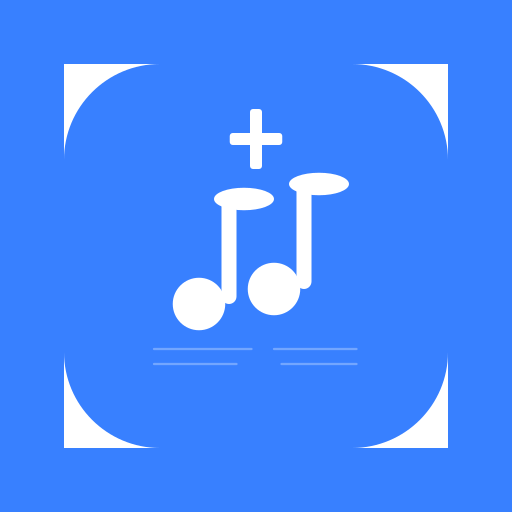
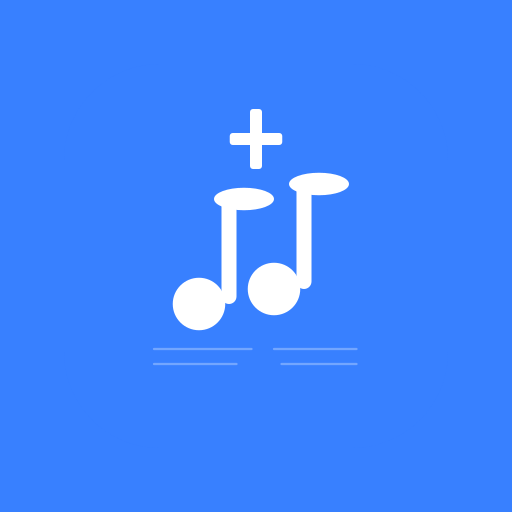
[FIX] Splash screen com fundo azul completo - corrige fundo branco no iOS e Android

diff --git a/scripts/generate-icons.js b/scripts/generate-icons.js
@@ -22,33 +22,47 @@ async function generateIcons() {
 
   for (const { size, name, maskable } of sizes) {
     try {
-      // Para ícones maskable, reduz o conteúdo para 75% (safe zone)
-      // deixando 12.5% de margem em cada lado
-      const iconSize = maskable ? Math.round(size * 0.75) : size
-      const padding = maskable ? Math.round((size - iconSize) / 2) : 0
-
       if (maskable) {
-        // Cria um canvas com fundo azul (#3880ff) e o ícone reduzido no centro
-        await sharp(svgBuffer)
+        // Para ícones maskable: cria canvas azul sólido + ícone reduzido no centro
+        const iconSize = Math.round(size * 0.75) // 75% do tamanho (safe zone)
+        const padding = Math.round((size - iconSize) / 2)
+
+        // 1. Cria um canvas azul sólido do tamanho final
+        const blueBackground = await sharp({
+          create: {
+            width: size,
+            height: size,
+            channels: 4,
+            background: { r: 56, g: 128, b: 255, alpha: 1 } // #3880ff sólido
+          }
+        }).png().toBuffer()
+
+        // 2. Redimensiona o ícone SVG
+        const resizedIcon = await sharp(svgBuffer)
           .resize(iconSize, iconSize)
-          .extend({
+          .png()
+          .toBuffer()
+
+        // 3. Compõe: fundo azul + ícone no centro
+        await sharp(blueBackground)
+          .composite([{
+            input: resizedIcon,
             top: padding,
-            bottom: padding,
-            left: padding,
-            right: padding,
-            background: { r: 56, g: 128, b: 255, alpha: 1 } // #3880ff
-          })
+            left: padding
+          }])
           .png()
           .toFile(join(publicDir, name))
+
+        console.log(`✅ ${name} (${size}x${size} - maskable, fundo azul sólido, ícone 75%)`)
       } else {
         // Ícones normais mantêm o tamanho original
         await sharp(svgBuffer)
           .resize(size, size)
           .png()
           .toFile(join(publicDir, name))
-      }
 
-      console.log(`✅ ${name} (${size}x${size}${maskable ? ' - maskable com 75% safe zone' : ''})`)
+        console.log(`✅ ${name} (${size}x${size})`)
+      }
     } catch (error) {
       console.error(`❌ Erro ao gerar ${name}:`, error.message)
     }

diff --git a/app.html b/app.html
@@ -7,7 +7,7 @@
     <link rel="icon" type="image/x-icon" href="/favicon.ico" />
     <meta name="theme-color" content="#3880ff" />
     <meta name="apple-mobile-web-app-capable" content="yes" />
-    <meta name="apple-mobile-web-app-status-bar-style" content="black" />
+    <meta name="apple-mobile-web-app-status-bar-style" content="default" />
   </head>
   <body>
     <div id="__nuxt"></div>

diff --git a/nuxt.config.ts b/nuxt.config.ts
@@ -26,7 +26,7 @@ export default defineNuxtConfig({
       short_name: 'Hinário Evangélico',
       description: 'Hinário  - Acesso offline completo disponível',
       theme_color: '#3880ff',
-      background_color: '#ffffff',
+      background_color: '#3880ff',
       display: 'standalone',
       orientation: 'portrait',
       scope: '/',
